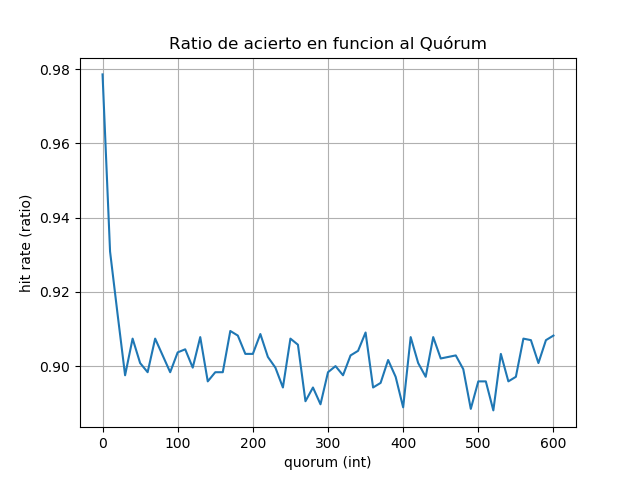
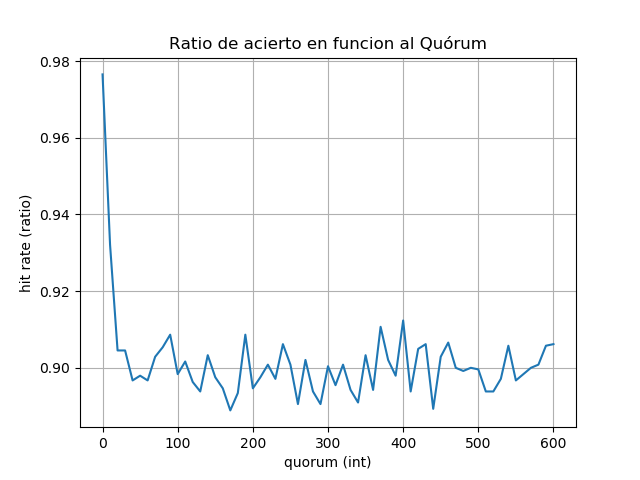
FIX: Arreglado texto gráfica 2 FIX: Arreglos menores de html ADD: Imagenes del documento actualizadas

diff --git a/src/templates/testing_form.html b/src/templates/testing_form.html
@@ -131,7 +131,7 @@
                 </div>
 
                 <div class="field">
-                    <label class="label">No. de saltos entero para intervalo (Ej: Para Quorum entre 1 y 50, Salto:3 => 1,4,7,10...49)</label>
+                    <label class="label">Longitud del salto para varíar el quórum (Ej: Para Quorum entre 1 y 50, Salto 3 => 1,4,7,10...49)</label>
                     <div class="control">
                         <input class="input" type="number" name="quorum_interval" placeholder="Salto" value="1" required>
                     </div>

diff --git a/src/id3/__init__.py b/src/id3/__init__.py
@@ -147,11 +147,19 @@ def get_results(dataset, train_percent, quorum, quorum_type, k, shuffle, acc):
         error += " Pruebe un porcentaje de entrenamiento mayor o a barajar el conjunto."
         return None, error, None
     # Dado que a veces no se puede clasificar, se reintenta hasta conseguirse
-    try:
-        tree, result, info = create_tree(dataset, train_percent, quorum, quorum_type, k, shuffle)
-    except:
-        inc_acc = acc + 1
-        return get_results(dataset, train_percent, quorum, quorum_type, k, shuffle, inc_acc)
+    if shuffle:
+        try:
+            tree, result, info = create_tree(dataset, train_percent, quorum, quorum_type, k, shuffle)
+        except:
+            inc_acc = acc + 1
+            return get_results(dataset, train_percent, quorum, quorum_type, k, shuffle, inc_acc)
+    else:
+        try:
+            tree, result, info = create_tree(dataset, train_percent, quorum, quorum_type, k, shuffle)
+        except:
+            error = "Parece que los datos de entrenamiento no son suficientes para los datos de prueba."
+            error += " Pruebe un porcentaje de entrenamiento mayor o a barajar el conjunto."
+            return None, error, None
 
     return tree, result, info
 

diff --git a/src/testing/__init__.py b/src/testing/__init__.py
@@ -60,7 +60,7 @@ def test(dataset, train_percent, shuffle, trees, vary, quorum_min, quorum_max, q
                    list(hit_percent.values()))
         # Cuenta de hojas
         save_graph(int(quorum_min), int(quorum_max), int(quorum_interval), "quorum (" + quorum_quorum_type + ")",
-                   "no. hojas (int)", "Número de clasificaciones por tipo de hoja", "quorum_leaf_count",
+                   "no. clasificaciones (int)", "Número de clasificaciones por tipo de hoja", "quorum_leaf_count",
                    list(leaf_count2["id3"].values()), list(leaf_count2["trunc"].values()))
         # Ratio de acierto por tipo de hoja
         save_graph(int(quorum_min), int(quorum_max), int(quorum_interval), "quorum (" + quorum_quorum_type + ")",
